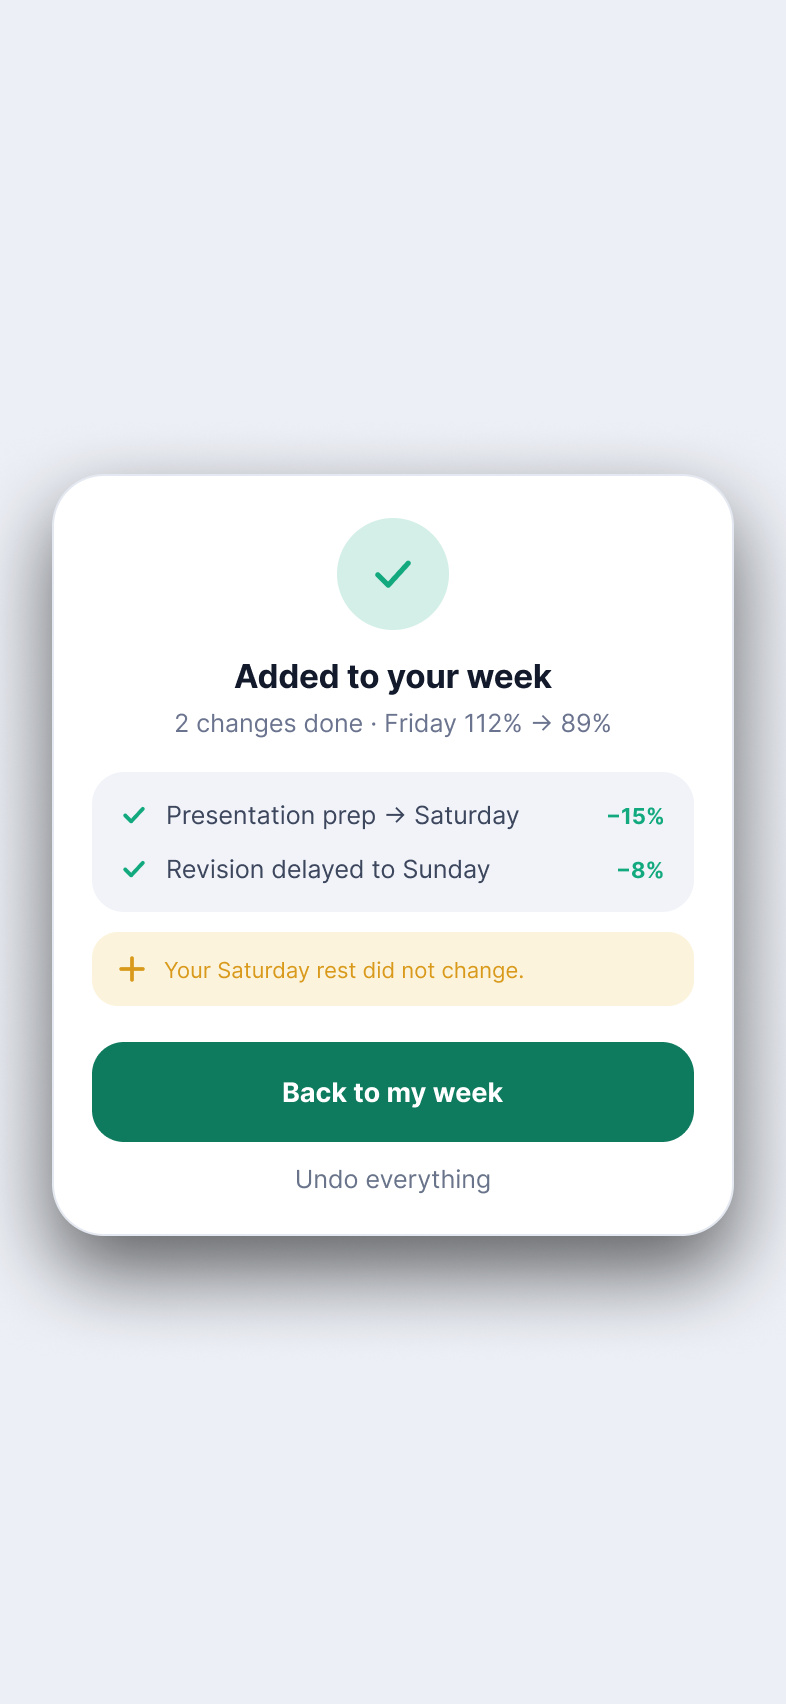
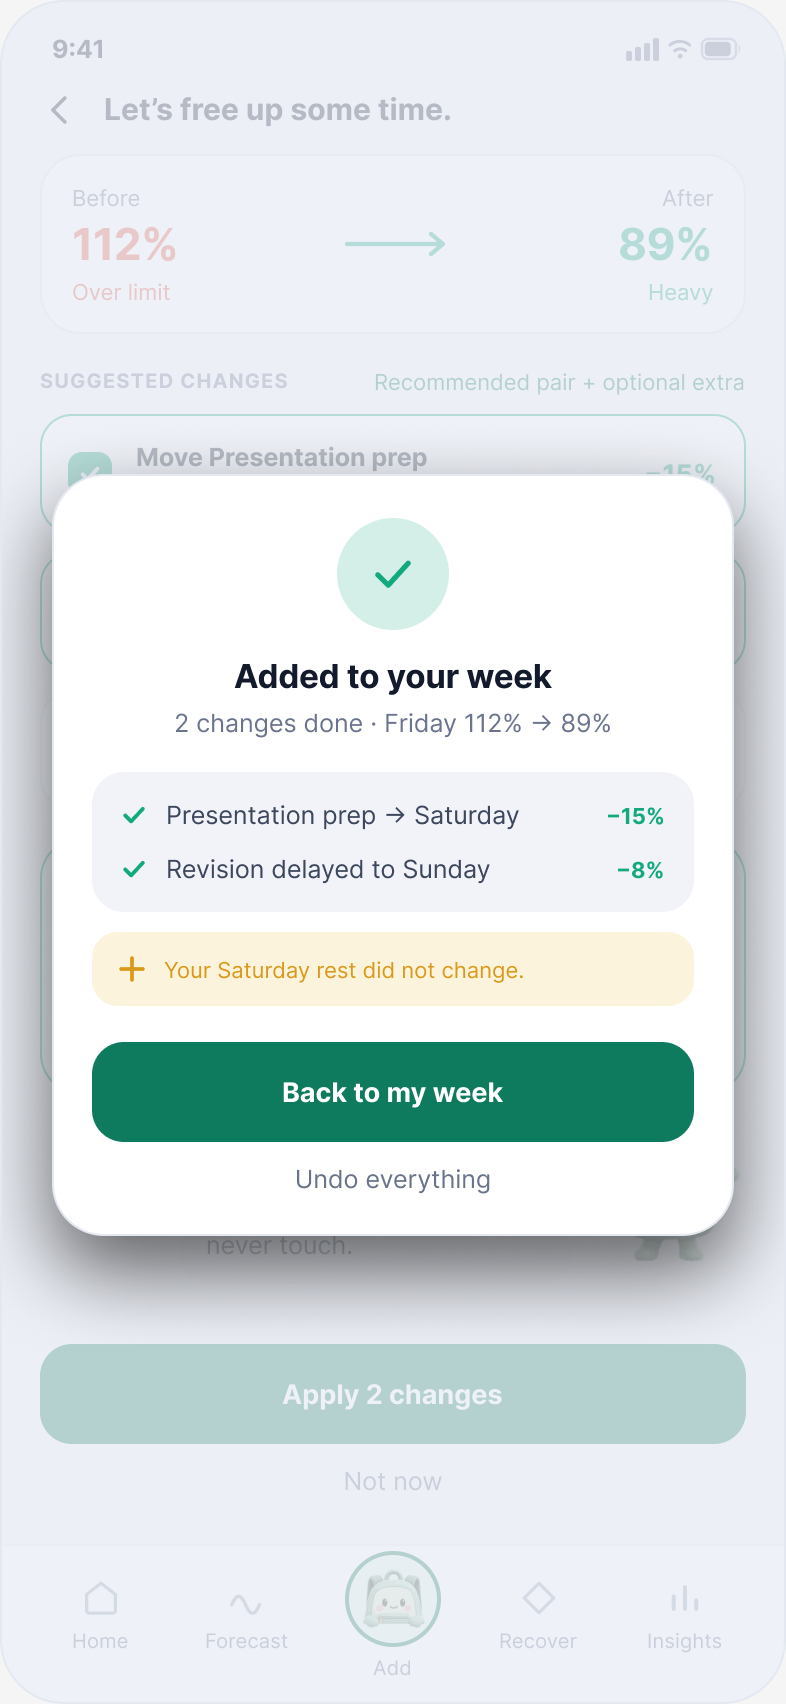
Export the changes-applied screens as the prototype shows them
Both were exported from the overlay frame on its own, so they arrived as a
card on a flat panel with no status bar and no tab bar, unlike every other
screenshot beside them.

The scrim is not opaque, as I previously reported from sampling the flat
export: it is 76% over the base. Exporting an overlay frame alone just
flattens it onto a background and loses the screen underneath. Composited
each overlay over the Smart Rebalance screen it opens from, which is what a
viewer of the prototype actually sees, and exported that. The temporary
frames were deleted; the file is back to 84 screens per theme with nothing
stray at page level.

diff --git a/README.md b/README.md
@@ -378,7 +378,7 @@ calendar still lands on a working Home.
 <td>Ticks the moves they accept, taps <b>Apply 2 changes</b>.</td>
 </tr>
 <tr>
-<td align="center"><img src="images/ov2-changes-applied.png" alt="Changes applied screen" width="170"><br><b>Changes applied</b></td>
+<td align="center"><img src="images/ov2-changes-applied.png" alt="Changes applied, a confirmation card over the Smart Rebalance screen it came from." width="170"><br><b>Changes applied</b></td>
 <td>Confirms what changed: Presentation prep → Saturday (−15%), Revision delayed to Sunday (−8%), Friday 112% → 89%.</td>
 <td>Taps <b>Back to my week</b>, or <b>Undo everything</b>.</td>
 </tr>
@@ -424,7 +424,7 @@ its own Home and Forecast, both still showing Friday over the limit.
 <td>Taps <b>Apply 2 changes</b>, or sends the swap request.</td>
 </tr>
 <tr>
-<td align="center"><img src="images/ov2w-changes-applied-wednesday.png" alt="Changes applied screen" width="170"><br><b>Changes applied</b></td>
+<td align="center"><img src="images/ov2w-changes-applied-wednesday.png" alt="Changes applied for Wednesday, a confirmation card over the Smart Rebalance screen it came from." width="170"><br><b>Changes applied</b></td>
 <td>Assignment Work → Saturday (−18%), Club Meeting → Sunday (−6%), Wednesday 104% → 80%.</td>
 <td>Taps <b>Back to my week</b>.</td>
 </tr>
